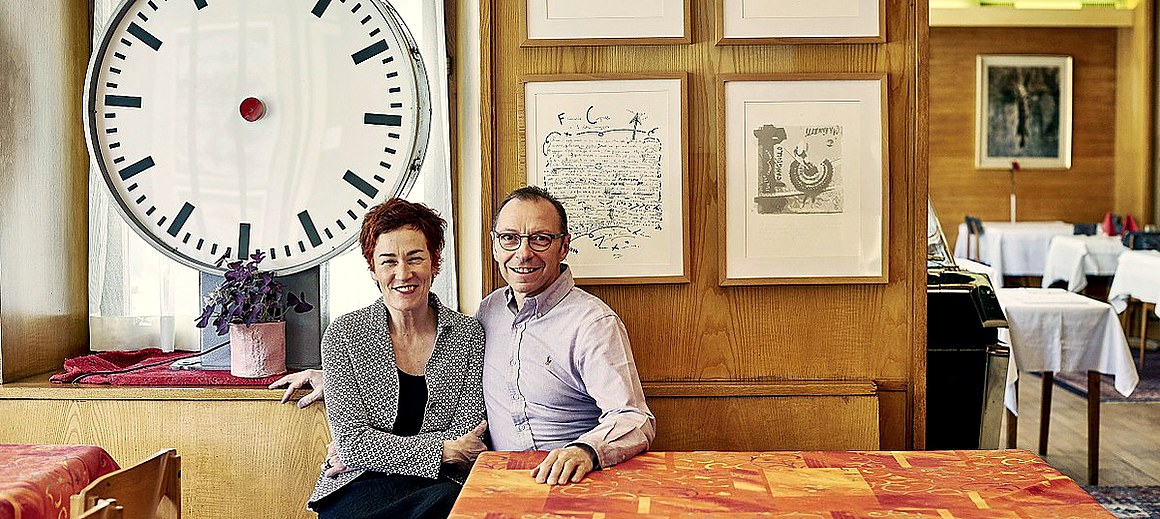
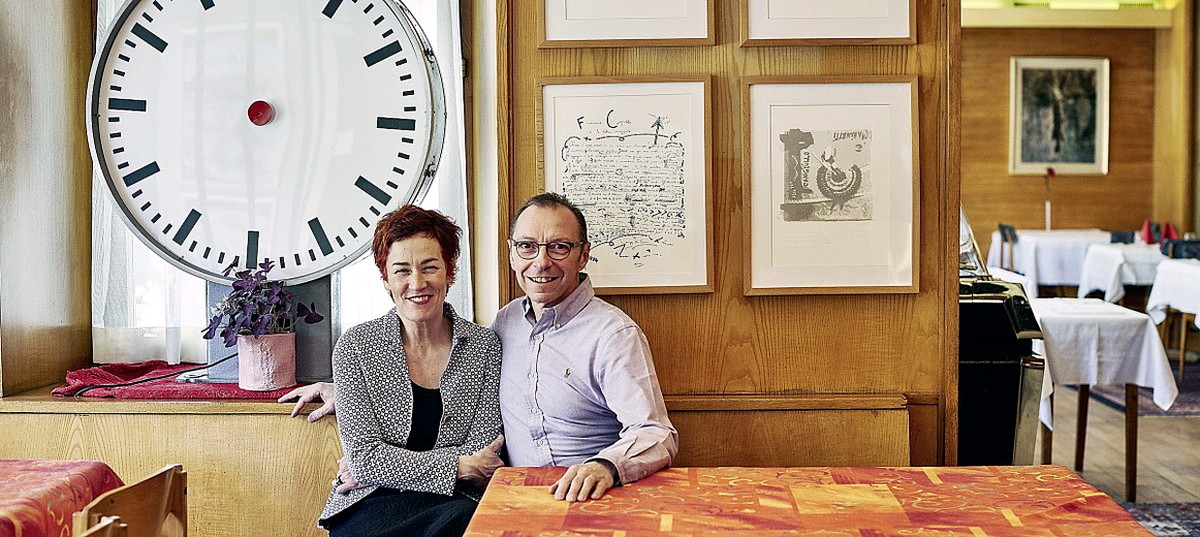
Hero upscale+sharpen, fix two-column alignment (dal 1903 & prezzi), better Eventi photo, natural family photo

diff --git a/index.html b/index.html
@@ -205,8 +205,8 @@ tailwind.config = {
 <!-- ======================= INTRO / OFFERTA COMPLETA ======================= -->
 <section id="offerta" class="bg-paper py-20 lg:py-28">
   <div class="mx-auto max-w-content px-5 lg:px-8">
-    <div class="grid lg:grid-cols-12 gap-12 lg:gap-16 items-start">
-      <div class="lg:col-span-7 reveal">
+    <div class="grid lg:grid-cols-12 gap-12 lg:gap-16 items-stretch">
+      <div class="lg:col-span-7 reveal flex flex-col justify-center">
         <p class="eyebrow text-gold mb-5">Hotel Defanti</p>
         <h2 class="font-display text-3xl lg:text-[2.9rem] leading-[1.08] font-medium text-ink">
           Dal 1903 la famiglia Defanti gestisce il proprio locale a&nbsp;Lavorgo.
@@ -225,21 +225,28 @@ tailwind.config = {
         </p>
       </div>
 
-      <!-- Heritage seal + stats -->
-      <div class="lg:col-span-5 reveal" style="transition-delay:.12s">
-        <div class="rounded-2xl bg-notte text-cream p-8 lg:p-10 shadow-xl">
-          <div class="flex items-center gap-4 mb-7">
+      <!-- Heritage seal + stats — fills column height, aligned top & bottom with text -->
+      <div class="lg:col-span-5 reveal flex" style="transition-delay:.12s">
+        <div class="rounded-2xl bg-notte text-cream p-8 lg:p-10 shadow-xl w-full flex flex-col justify-between gap-8">
+          <div class="flex items-center gap-4">
             <div class="seal flex-shrink-0 w-20 h-20 rounded-full ring-2 ring-gold/60 flex flex-col items-center justify-center text-center">
               <span class="font-display italic text-gold text-2xl leading-none">1903</span>
               <span class="text-[.5rem] tracking-[.2em] mt-1 opacity-70">DAL</span>
             </div>
             <p class="font-display italic text-xl text-cream/90">Quattro generazioni<br>di ristoratori</p>
           </div>
+          <div>
+            <span class="rule-gold block w-16 mb-5"></span>
+            <p class="font-display italic text-lg text-cream/80 leading-relaxed">
+              «Da Sobrio a Lavorgo, passando per Parigi e New York» — la passione per la ristorazione
+              tramandata di generazione in generazione.
+            </p>
+          </div>
           <div class="grid grid-cols-2 gap-y-7 gap-x-5">
             <div><div class="font-display text-3xl text-goldlt">120+</div><div class="text-xs mt-1 opacity-70 tracking-wide">anni di tradizione</div></div>
             <div><div class="font-display text-3xl text-goldlt">4</div><div class="text-xs mt-1 opacity-70 tracking-wide">generazioni di famiglia</div></div>
             <div><div class="font-display text-3xl text-goldlt">2 km</div><div class="text-xs mt-1 opacity-70 tracking-wide">dall'uscita di Faido</div></div>
-            <div><div class="font-display text-3xl text-goldlt">Slow<br class="hidden">Food</div><div class="text-xs mt-1 opacity-70 tracking-wide">segnalati sulla guida</div></div>
+            <div><div class="font-display text-3xl text-goldlt">Slow Food</div><div class="text-xs mt-1 opacity-70 tracking-wide">segnalati sulla guida</div></div>
           </div>
         </div>
       </div>
@@ -376,18 +383,18 @@ tailwind.config = {
 <!-- ======================= CAMERE / PREZZI ======================= -->
 <section id="camere" class="bg-paper py-20 lg:py-28">
   <div class="mx-auto max-w-content px-5 lg:px-8">
-    <div class="grid lg:grid-cols-12 gap-12 lg:gap-16 items-start">
-      <div class="lg:col-span-5 reveal">
+    <div class="grid lg:grid-cols-12 gap-12 lg:gap-16 items-stretch">
+      <div class="lg:col-span-5 reveal flex flex-col">
         <p class="eyebrow text-gold mb-5">Camere · Prezzi</p>
         <h2 class="font-display text-3xl lg:text-[2.8rem] leading-[1.08] font-medium text-ink">Il riposo del viaggiatore, dal 1903</h2>
         <p class="mt-6 text-ink/75 text-lg leading-relaxed">
           Camere con doccia/W.C., TV satellitare, Wi-Fi gratuito, asciugacapelli, compresa prima
           colazione a buffet. Ideali per viaggiatori singoli, coppie e famiglie fino a 6 persone.
         </p>
-        <img src="img/accoglienza.jpg" alt="Dettaglio di benvenuto nelle camere del Defanti" class="mt-8 rounded-2xl shadow-lg w-full object-cover aspect-[16/9]"/>
+        <img src="img/accoglienza.jpg" alt="Dettaglio di benvenuto nelle camere del Defanti" class="mt-8 rounded-2xl shadow-lg w-full object-cover flex-1 min-h-[220px]"/>
       </div>
 
-      <div class="lg:col-span-7 reveal" style="transition-delay:.1s">
+      <div class="lg:col-span-7 reveal flex flex-col" style="transition-delay:.1s">
         <div class="rounded-2xl bg-white ring-1 ring-line shadow-sm overflow-hidden">
           <div class="px-7 py-5 bg-cream border-b border-line">
             <p class="font-display text-xl text-ink">Listino prezzi <span class="text-ink/50 text-sm font-body">— colazione a buffet inclusa</span></p>
